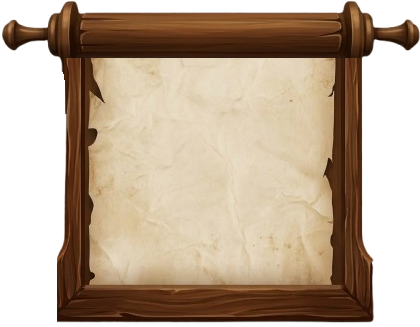
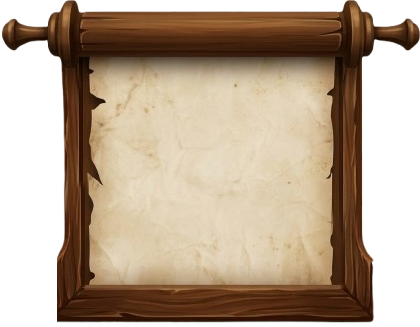
major ui upgrade, improved html, css, js

diff --git a/style.css b/style.css
@@ -14,7 +14,7 @@ body {
     background-image: url("IMG/cal-layout.png");
         background-repeat: no-repeat;
         background-size: cover;
-        filter: drop-shadow(9px 9px 15px #050200);
+        filter: drop-shadow(10px 10px 18px #050200);
     padding: 25px;
     border-radius: 25px;
     width: 620px;
@@ -24,7 +24,9 @@ body {
 }
 
 .title {
-    color: #f5f5f5;
+     text-shadow: 0px 1px 0px rgba(255, 255, 255, 0.3), /* Highlight (simulating light) */
+               0px -1px 0px rgba(0, 0, 0, 0.7); /* Shadow (simulating depth) */
+    color: #291403;
     font-size: 22px;
 }
 .credit{
@@ -63,6 +65,7 @@ body {
     left: 5%;
     top: 24%;
     color: #a33b0f;
+    font-family: "Lucida Handwriting", cursive;
     font-weight: bold;
     text-align: left;
     margin-left: 130px;
@@ -142,11 +145,11 @@ th {
 
 th, td {
     padding: 10px;
-    border: 1px solid #ddd;
+    border: 1px solid #ddddddb3;
 }
 
-tr:nth-child(even) {
-    background: #f5f5f5;
+.result-table tr:nth-child(even) {
+    background: #f5f5f5af;
 }
 
 /* Modal stays mostly same */
@@ -157,31 +160,41 @@ tr:nth-child(even) {
     left: 95%;
     top: 25%;
     width: 355px;
-    height: 335px;
+    height: 345px;
 
     background: none;
     background-image: url("IMG/info-layout.png");
     background-repeat: no-repeat;
     background-size: cover;
-    filter: drop-shadow(4px 4px 9px #050200);
+    transition: transform 0.3s ease-in-out;
+
 
     /* center content */
     justify-content: center;
     align-items: center;
 }
+.modal:hover {
+    transform: scale(1.05);
+    filter: drop-shadow(1px 1px 3px #ffffff69);
+}
 
 .modal-content {
+    margin-top: -37px;
     background: none;
     color: rgb(0, 0, 0);
-    padding: 5px;
+    font-family: "Lucida Handwriting", cursive;
     font-size: 8px;
+    line-height: 75%;
     border-radius: 0;
     width: 70%;
     max-width: 200px;
     animation: fadeIn 0.2s ease;
 }
 .modal-content h2 {
-    margin-top: 15px;
+    padding-top: 15px;
+
+    color: #822500;
+    font-weight: 1000;
 }
 .modal-table {
     background: transparent;
@@ -191,7 +204,9 @@ tr:nth-child(even) {
 /* Remove header background */
 .modal-table th {
     background: transparent;
-    color: #000000; /* adjust depending on your PNG */
+    color: #822500; /* adjust depending on your PNG */
+    font-size: larger;
+    font-weight: 800;
     border: none;
 }
 
@@ -201,12 +216,16 @@ tr:nth-child(even) {
     color: rgb(0, 0, 0);
     border: none;
 }
+.modal-table tr:nth-child(even) {
+    background: transparent !important;
+}
 
 .close {
     float: center;
     font-size: 24px;
     cursor: pointer;
-    color: #ffffff;
+    color: #631c00;
+    
 }
 
 .close:hover {
@@ -218,6 +237,47 @@ tr:nth-child(even) {
     to { transform: scale(1); opacity: 1; }
 }
 
-#result {
-    margin-top: 150px;
+.result-modal {
+    display: none;
+    position: fixed;
+    z-index: 1000;
+    margin-left: -442px;
+    top: 0;
+    left: 0;
+    width: 100vw;
+    height: 100vh;
+
+    background: rgba(0, 0, 0, 0.7);
+
+    display: flex;
+    justify-content: center;
+    align-items: center;
+}
+
+.result-content {
+    background: rgb(168, 123, 95);
+    padding: 20px;
+    border-radius: 12px;
+    width: 90%;
+    max-width: 1000px;
+    max-height: 90%;
+    overflow: auto;
+    text-align: center;
+}
+
+.close-result {
+    float: right;
+    font-size: 28px;
+    cursor: pointer;
+}
+
+#newExprBtn {
+    display: block;
+    margin: 20px 0 0 auto; /* pushes it to the right */
+    margin-right: 50px;
+    padding: 5px 20px;
+    border-radius: 5px;
+    background: #291403;
+    color: rgb(255, 255, 255);
+    cursor: pointer;
 }

diff --git a/script.js b/script.js
@@ -112,20 +112,22 @@ function calculate() {
     let expr = document.getElementById("display").value;
 
     let error = validateExpression(expr);
+
     if (error) {
-        document.getElementById("error").innerText = error;
+        showError(error); // ✅ correct place
         document.getElementById("result").innerHTML = "";
         return;
     }
 
-    document.getElementById("error").innerText = "";
+    // Clear error if valid input
+    document.getElementById("error").innerHTML = "";
 
     let vars = [...new Set(expr.match(/[A-Z]/g))];
     let subExprs = getSubExpressions(expr);
 
     let rows = generateRows(vars.length);
 
-    let html = "<table><tr>";
+    let html = "<table class='result-table'><tr>";
 
     // Headers
     vars.forEach(v => html += `<th>${v}</th>`);
@@ -162,7 +164,24 @@ function calculate() {
 
     html += "</table>";
 
-    document.getElementById("result").innerHTML = html;
+    document.getElementById("resultTableContainer").innerHTML = html;
+
+    // Show modal
+    let modal = document.getElementById("resultModal");
+    modal.style.display = "flex";
+}
+function closeResult() {
+    // Hide modal
+    document.getElementById("resultModal").style.display = "none";
+
+    // Clear table
+    document.getElementById("resultTableContainer").innerHTML = "";
+
+    // Enable help button again
+    document.querySelector(".help").classList.remove("disabled");
+
+    // Optional: clear input
+    document.getElementById("display").value = "";
 }
 
 function validateExpression(expr) {
@@ -197,6 +216,24 @@ function validateExpression(expr) {
     return null; // valid
 }
 
+let errorTimeout;
+
+function showError(message) {
+    let errorDiv = document.getElementById("error");
+
+    errorDiv.innerHTML = `Error: ${message}`;
+
+    // Clear previous timer
+    if (errorTimeout) {
+        clearTimeout(errorTimeout);
+    }
+
+    // Start new timer
+    errorTimeout = setTimeout(() => {
+        errorDiv.innerHTML = "";
+    }, 1500);
+}
+
 function showHelp() {
     playSound("infoSound");
     document.getElementById("helpModal").style.display = "flex";
@@ -212,5 +249,12 @@ window.onclick = function(event) {
     let modal = document.getElementById("helpModal");
     if (event.target === modal) {
         modal.style.display = "none";
+    }
+}
+
+window.onclick = function(event) {
+    let modal = document.getElementById("resultModal");
+    if (event.target === modal) {
+        closeResult();
     }
 }

diff --git a/index.html b/index.html
@@ -50,7 +50,19 @@
 
 <div id="error"></div>
 
-<div id="result"></div>
+<div id="resultModal" class="result-modal">
+    <div class="result-content">
+        <span class="close-result" onclick="closeResult()">&times;</span>
+
+        <h2>Truth Table Result</h2>
+
+        <div id="resultTableContainer"></div>
+
+        <button id="newExprBtn" onclick="closeResult()">
+            Solve New Expression
+        </button>
+    </div>
+</div>
 
 <div id="helpModal" class="modal">
   <div class="modal-content">
